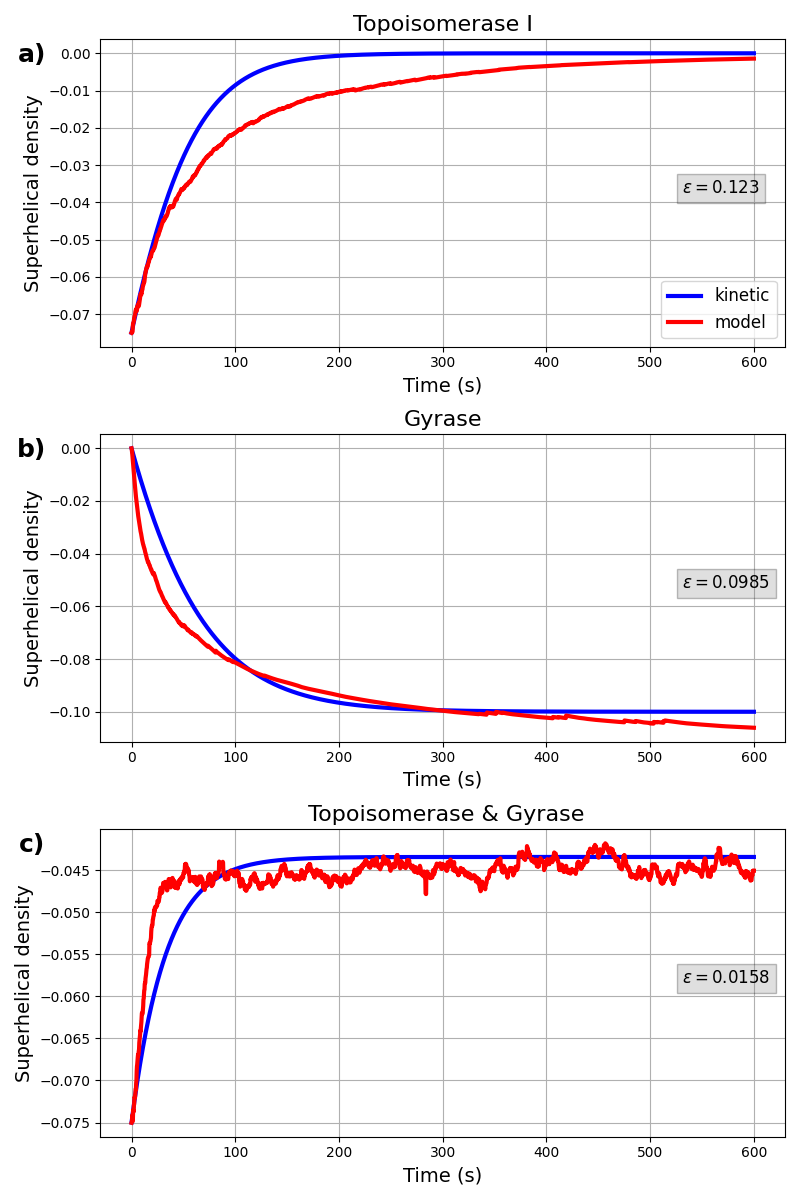
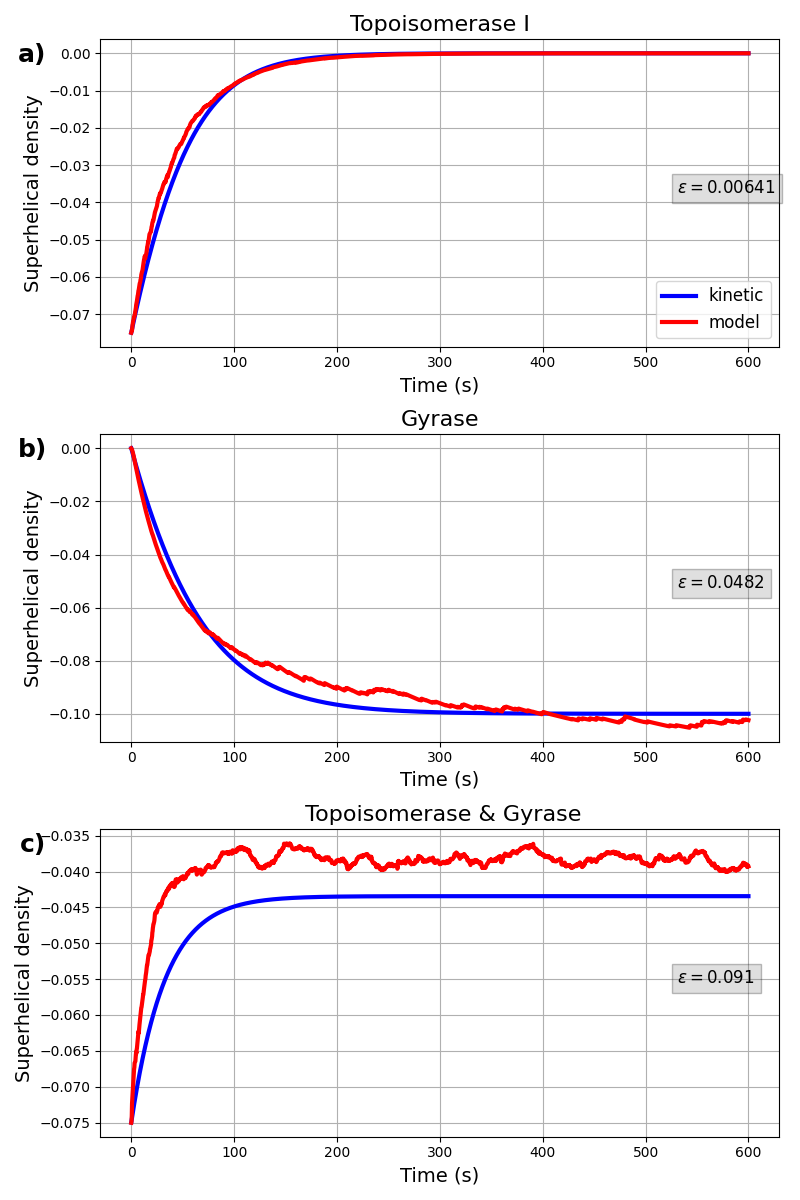
Testing add_new_enzymes Done

diff --git a/TORCphysics/Experiments/topo_kinetics/recognition-linear/calibrate_topos.py b/TORCphysics/Experiments/topo_kinetics/recognition-linear/calibrate_topos.py
@@ -19,7 +19,8 @@ import sys
 # concentrations (nM), K_M (nM), velocities (nM/s), time (s)
 dt = 0.25
 initial_time = 0
-final_time = 600
+# Let's do it for 400s to add more weight to the curve and not the plateau
+final_time = 500 # 600
 time = np.arange(initial_time, final_time + dt, dt)
 frames = len(time)
 file_out = 'calibration'
